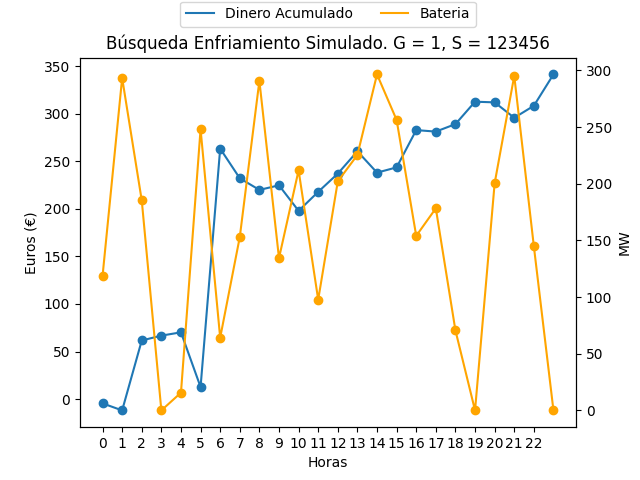
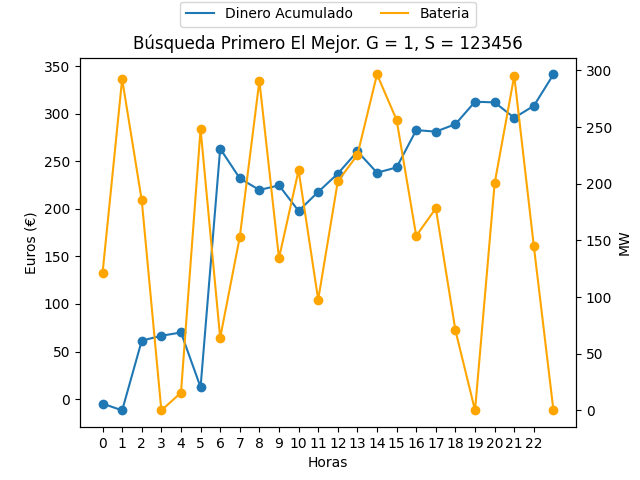
auto-commit:17/03/2023 a las 13:07:43,09

Changed region(s): [[0.4062, 0.0625, 0.875, 0.125], [0.1562, 0.0625, 0.375, 0.125], [0.1562, 0.4688, 0.1875, 0.5938]]

diff --git a/2º Cuatrimestre/[MByHB] Modelos Bioinspirados y Heurísticas de Búsquedas/Prácticas/Práctica 1. Búsquedas Locales/_5_Búsqueda_VND/busqueda_vnd.py b/2º Cuatrimestre/[MByHB] Modelos Bioinspirados y Heurísticas de Búsquedas/Prácticas/Práctica 1. Búsquedas Locales/_5_Búsqueda_VND/busqueda_vnd.py
@@ -22,7 +22,7 @@ semillas = constantes.semillas
 #   k = 3 : Cambia 4 individuos
 #   k = 4 : Cambia 6 individuos
 #   k = 5 : Cambia 8 individuos
-estructura_entornos = [1, 2, 3, 4, 5]
+estructura_entornos = [1, 5, 10, 15, 20]
 
 if isRandom:
     precio_venta = constantes.precio_venta_random
@@ -33,8 +33,8 @@ else:
     precio_compra = constantes.precio_compra
     r = constantes.r
 
-evaluaciones = np.tile(np.array([0 for _ in range(numero_repeticiones)], dtype=np.float64), (3, 1))
-dinero = np.tile(np.array([0 for _ in range(numero_repeticiones)], dtype=np.float64), (3, 1))
+evaluaciones = np.array([0 for _ in range(numero_repeticiones)], dtype=np.float64)
+dinero = np.array([0 for _ in range(numero_repeticiones)], dtype=np.float64)
 
 
 def entorno(solucion_actual, granularidad, k):
@@ -55,18 +55,17 @@ def entorno(solucion_actual, granularidad, k):
     return entorno_soluciones
 
 
-def generar_vecino(solucion_actual, granularidad, indices):
+def generar_vecino(solucion_actual, granularidad, pos):
     solucion_vecina = solucion_actual.copy()
-    for pos in indices:
-        suma = pos < 24
-        if not suma and solucion_vecina[pos % 24] - granularidad >= -100:
-            solucion_vecina[pos % 24] -= granularidad
-        elif not suma:
-            solucion_vecina[pos % 24] = -100
-        elif suma and solucion_vecina[pos % 24] + granularidad <= 100:
-            solucion_vecina[pos % 24] += granularidad
-        else:
-            solucion_vecina[pos % 24] = 100
+    suma = pos < 24
+    if not suma and solucion_vecina[pos % 24] - granularidad >= -100:
+        solucion_vecina[pos % 24] -= granularidad
+    elif not suma:
+        solucion_vecina[pos % 24] = -100
+    elif suma and solucion_vecina[pos % 24] + granularidad <= 100:
+        solucion_vecina[pos % 24] += granularidad
+    else:
+        solucion_vecina[pos % 24] = 100
 
     return solucion_vecina
 
@@ -83,10 +82,9 @@ def busqueda_elmejor(solucion_par, k, granularidad):
         mejor_vecino = solucion_actual
         dinero_vecino, dinero_acumulado_vecino, bateria_hora_vecino = base.funcion_evaluacion(mejor_vecino, isRandom)
 
-        # TODO REVISAR!
-        for indices in combinations(range(48), estructura_entornos[k]):  # Repetir para toda S' perteneciente a E(S_act)
+        for vecino in range(48):  # Repetir para toda S' perteneciente a E(S_act)
             # Si el objetivo(s_prima) es mejor que objetivo(mejor_vecino)
-            s_prima = generar_vecino(solucion_actual, granularidad, indices)
+            s_prima = generar_vecino(solucion_actual, estructura_entornos[k], vecino)
             dinero_sprima, dinero_acumulado_sprima, bateria_hora_sprima = base.funcion_evaluacion(s_prima, isRandom)
 
             if dinero_sprima > dinero_vecino:
@@ -109,10 +107,10 @@ def busqueda_elmejor(solucion_par, k, granularidad):
     return max_dinero, best_dinero_acumulado, best_bateria_hora, num_evaluaciones, solucion_actual  # Devuelve la solucion actual
 
 
-def busqueda_elmejor_vnd(semilla, granularidad):
+def busqueda_elmejor_vnd(semilla):
     random.seed(semilla)
 
-    solucion_inicial = base.generar_inicial(semilla, 24, granularidad)
+    solucion_inicial = base.generar_inicial(semilla, 24, estructura_entornos[0])
     solucion_actual = solucion_inicial
     best_dinero_acumulado = []
     best_bateria_hora = []
@@ -124,7 +122,7 @@ def busqueda_elmejor_vnd(semilla, granularidad):
         print(f"K = {k}")
         # a) Exploración del entorno: Encontrar la mejor solución s' del k-ésimo entorno de s.
         dinero_obtenido, dinero_acumulado, bateria_hora, n_evaluaciones, solucion_obtenida = busqueda_elmejor(
-            solucion_inicial, k, granularidad)
+            solucion_inicial, k, estructura_entornos[k])
 
         # b) Moverse o no: Si la solución obtenida s' es mejor que s, hacer s <- s' y k <- 1;
         #    en otro caso, hacer k <- k + 1
@@ -145,75 +143,49 @@ def grafica_elmejor_vnd():
     # Llamamos a la funcion de búsqueda:
     for i in range(numero_repeticiones):
         ingresos_granularidad = np.tile(np.array([0 for _ in range(24)], dtype=np.float64), (3, 1))
-        for g in range(len(granularidades)):
-            dinero_mejor, dinero_acumulado, bateria_hora, num_evaluaciones_mejor, solucion = \
-                busqueda_elmejor_vnd(semillas[i], granularidades[g])
+        dinero_mejor, dinero_acumulado, bateria_hora, num_evaluaciones_mejor, solucion = \
+                busqueda_elmejor_vnd(semillas[i])
 
-            ingresos_granularidad[g] = dinero_acumulado
+        dinero[i] = dinero_mejor
+        evaluaciones[i] = num_evaluaciones_mejor
 
-            dinero[g, i] = dinero_mejor
-            evaluaciones[g, i] = num_evaluaciones_mejor
-
-            # Dinero acumulado en cada hora
-            fig, ax = plt.subplots()
-            plt.title(f"Búsqueda El Mejor VND. G = {granularidades[g]}, S = {semillas[i]}")
-            ax.set_xticks(range(0, 23, 1))
-            ln0 = ax.plot([j for j in range(24)], [cent / 100 for cent in dinero_acumulado],
-                          label="Dinero Acumulado")
-            ax.scatter([j for j in range(24)], [cent / 100 for cent in dinero_acumulado])
-
-            # Capacidad de la bateria en cada hora
-            ax1 = ax.twinx()
-            ln1 = ax1.plot([j for j in range(24)], bateria_hora, c='orange', label="Bateria")
-            ax1.scatter([j for j in range(24)], bateria_hora, c='orange')
-            ax.set_xlabel("Horas")
-            ax.set_ylabel("Euros (€)")
-            ax1.set_ylabel("MW")
-            ax1.set(ylim=ax.get_ylim())
-            leg = ln0 + ln1
-            labs = [legend.get_label() for legend in leg]
-            plt.legend(leg, labs, loc='upper center', bbox_to_anchor=(0.5, 1.17), ncol=3)
-            if not isRandom:
-                plt.savefig(f'.\\graficas\\ProblemaReal\\'
-                            f'best_search_VND_g{granularidades[g]}_s{semillas[i]}_ProblemaReal.png')
-            else:
-                plt.savefig(f'.\\graficas\\ProblemaAleatorio\\'
-                            f'best_search_VND_g{granularidades[g]}_s{semillas[i]}_ProblemaAleatorio.png')
-            plt.show()  # Mostramos la gráfica
-            plt.close()
-            print(solucion)
-        # Grafica de ingresos de las tres granularidades:
+        # Dinero acumulado en cada hora
         fig, ax = plt.subplots()
-        plt.title(f"Comparacion de ingresos por granularidad\n Semilla: {semillas[i]}")
-        for granularidad in range(3):
-            ln0 = ax.plot([j for j in range(24)], [cent / 100 for cent in ingresos_granularidad[granularidad, :]],
-                          label=f"Ingresos con granularidad = {granularidades[granularidad]}")
-            ax.scatter([j for j in range(24)], [cent / 100 for cent in ingresos_granularidad[granularidad, :]])
+        plt.title(f"Búsqueda El Mejor VND. S = {semillas[i]}")
+        ax.set_xticks(range(0, 23, 1))
+        ln0 = ax.plot([j for j in range(24)], [cent / 100 for cent in dinero_acumulado],
+                      label="Dinero Acumulado")
+        ax.scatter([j for j in range(24)], [cent / 100 for cent in dinero_acumulado])
 
-        plt.legend()
-        ax.set_xticks(range(0, 24, 1))
-        plt.xlabel("Horas")
-        plt.ylabel("Euros (€)")
-
+        # Capacidad de la bateria en cada hora
+        ax1 = ax.twinx()
+        ln1 = ax1.plot([j for j in range(24)], bateria_hora, c='orange', label="Bateria")
+        ax1.scatter([j for j in range(24)], bateria_hora, c='orange')
+        ax.set_xlabel("Horas")
+        ax.set_ylabel("Euros (€)")
+        ax1.set_ylabel("MW")
+        ax1.set(ylim=ax.get_ylim())
+        leg = ln0 + ln1
+        labs = [legend.get_label() for legend in leg]
+        plt.legend(leg, labs, loc='upper center', bbox_to_anchor=(0.5, 1.17), ncol=3)
         if not isRandom:
-            plt.savefig(f'.\\graficas\\ProblemaReal\\ingresos-granularidad\\'
+            plt.savefig(f'.\\graficas\\ProblemaReal\\'
                         f'best_search_VND_s{semillas[i]}_ProblemaReal.png')
         else:
-            plt.savefig(f'.\\graficas\\ProblemaAleatorio\\ingresos-granularidad\\'
+            plt.savefig(f'.\\graficas\\ProblemaAleatorio\\'
                         f'best_search_VND_s{semillas[i]}_ProblemaAleatorio.png')
-
-        plt.show()
+        plt.show()  # Mostramos la gráfica
         plt.close()
+        print(solucion)
 
-    # Generamos los datos obtenidos de la búsqueda
-    for gr in range(3):
+        # Generamos los datos obtenidos de la búsqueda
         data = {
-            'Media Evaluaciones': [statistics.mean(evaluaciones[gr, :])],
-            'Mejor Evaluación': [min(evaluaciones[gr, :])],
-            'Desviación Evaluaciones': [statistics.stdev(evaluaciones[gr, :])],
-            'Media Dinero (€)': [round(statistics.mean(dinero[gr, :]) / 100, 2)],
-            'Mejor Dinero (€)': [round(max(dinero[gr, :]) / 100, 2)],
-            'Desviación Dinero (€)': [round(statistics.stdev(dinero[gr, :]) / 100, 2)]
+            'Media Evaluaciones': [statistics.mean(evaluaciones[:])],
+            'Mejor Evaluación': [min(evaluaciones[:])],
+            'Desviación Evaluaciones': [statistics.stdev(evaluaciones[:])],
+            'Media Dinero (€)': [round(statistics.mean(dinero[:]) / 100, 2)],
+            'Mejor Dinero (€)': [round(max(dinero[:]) / 100, 2)],
+            'Desviación Dinero (€)': [round(statistics.stdev(dinero[:]) / 100, 2)]
         }
 
         # Opciones de Pandas para mostrar la tabla completa en la consola
@@ -223,7 +195,6 @@ def grafica_elmejor_vnd():
         pd.set_option('display.max_colwidth', None)
 
         # Mostramos los datos obtenidos
-        print(f"Granularidad: {granularidades[gr]}")
         print(pd.DataFrame(data))
 
 

diff --git a/2º Cuatrimestre/[MByHB] Modelos Bioinspirados y Heurísticas de Búsquedas/Prácticas/Práctica 1. Búsquedas Locales/_6_Búsqueda_Enfriamiento_Simulado/busqueda_ES.py b/2º Cuatrimestre/[MByHB] Modelos Bioinspirados y Heurísticas de Búsquedas/Prácticas/Práctica 1. Búsquedas Locales/_6_Búsqueda_Enfriamiento_Simulado/busqueda_ES.py
@@ -9,7 +9,7 @@ import matplotlib.pyplot as plt
 import pandas as pd
 import numpy as np
 
-isRandom = True
+isRandom = False
 numero_repeticiones = 5
 
 # Constantes
@@ -259,6 +259,9 @@ if __name__ == "__main__":
         # print(s)
         # print(f"Dinero = {dinero}")
         # print(f"F(s) = {base.funcion_evaluacion(s, isRandom)[0]}")
+        # print(f"D_acum(s) = {base.funcion_evaluacion(s, isRandom)[1]}")
+        # print(f"B_acum(s) = {base.funcion_evaluacion(s, isRandom)[2]}")
+
 
 
 

diff --git a/2º Cuatrimestre/[MByHB] Modelos Bioinspirados y Heurísticas de Búsquedas/Prácticas/Práctica 1. Búsquedas Locales/_4_Búsqueda_Primero_el_Mejor/busqueda_elprimero.py b/2º Cuatrimestre/[MByHB] Modelos Bioinspirados y Heurísticas de Búsquedas/Prácticas/Práctica 1. Búsquedas Locales/_4_Búsqueda_Primero_el_Mejor/busqueda_elprimero.py
@@ -7,7 +7,7 @@ import matplotlib.pyplot as plt
 import pandas as pd
 import numpy as np
 
-isRandom = False
+isRandom = True
 numero_repeticiones = 5
 
 # Constantes
